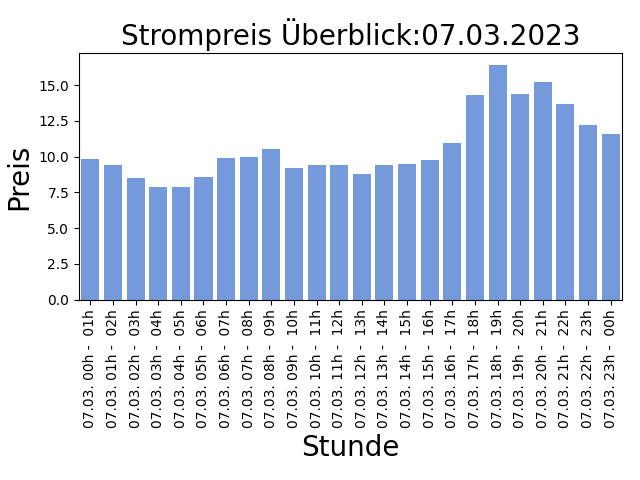
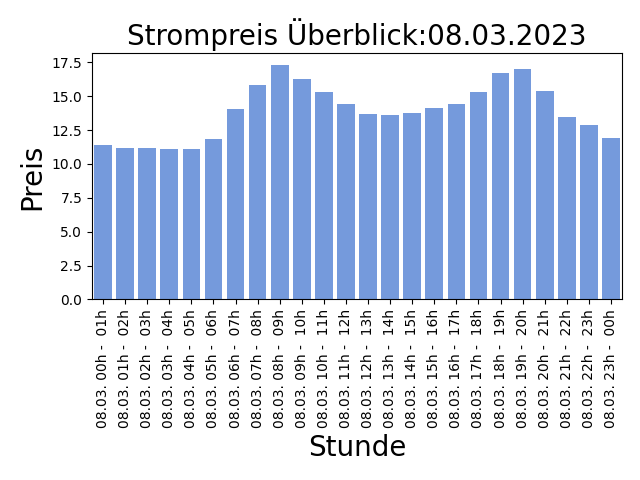
AUTOMATIC UPDATE PRICE LIST: 2023-03-07-14:30:07

diff --git a/README.md b/README.md
@@ -1,5 +1,5 @@
 
-## Strompreise für den 07.03.2023
+## Strompreise für den 08.03.2023
 
 Niedrige Preise deuten auf viel Sonnen und Windenergieerzeugung hin, ein hoher Anteil an erneuerbaren Energien bedeuted weniger CO2 Verbrauch!
 
@@ -7,31 +7,31 @@ Niedrige Preise deuten auf viel Sonnen und Windenergieerzeugung hin, ein hoher A
 
 | Stunde | Preis in Cent/kWh |
 |---|---|
-| 07.03. 00h -  01h | 9.806000000000001 | 
-| 07.03. 01h -  02h | 9.426 | 
-| 07.03. 02h -  03h | 8.5 | 
-| 07.03. 03h -  04h | 7.895999999999999 | 
-| **07.03. 04h -  05h** | **7.851999999999999** | 
-| 07.03. 05h -  06h | 8.556999999999999 | 
-| 07.03. 06h -  07h | 9.870999999999999 | 
-| 07.03. 07h -  08h | 9.956999999999999 | 
-| 07.03. 08h -  09h | 10.559000000000001 | 
-| 07.03. 09h -  10h | 9.192 | 
-| 07.03. 10h -  11h | 9.386 | 
-| 07.03. 11h -  12h | 9.426 | 
-| 07.03. 12h -  13h | 8.757 | 
-| 07.03. 13h -  14h | 9.386 | 
-| 07.03. 14h -  15h | 9.507 | 
-| 07.03. 15h -  16h | 9.76 | 
-| 07.03. 16h -  17h | 10.922 | 
-| 07.03. 17h -  18h | 14.297 | 
-| 07.03. 18h -  19h | 16.408 | 
-| 07.03. 19h -  20h | 14.391 | 
-| 07.03. 20h -  21h | 15.213999999999999 | 
-| 07.03. 21h -  22h | 13.643 | 
-| 07.03. 22h -  23h | 12.221 | 
-| 07.03. 23h -  00h | 11.549 | 
+| 08.03. 00h -  01h | 11.43 | 
+| 08.03. 01h -  02h | 11.209999999999999 | 
+| 08.03. 02h -  03h | 11.202 | 
+| **08.03. 03h -  04h** | **11.1** | 
+| 08.03. 04h -  05h | 11.1 | 
+| 08.03. 05h -  06h | 11.823 | 
+| 08.03. 06h -  07h | 14.068000000000001 | 
+| 08.03. 07h -  08h | 15.853 | 
+| 08.03. 08h -  09h | 17.31 | 
+| 08.03. 09h -  10h | 16.3 | 
+| 08.03. 10h -  11h | 15.299000000000001 | 
+| 08.03. 11h -  12h | 14.416999999999998 | 
+| 08.03. 12h -  13h | 13.716999999999999 | 
+| 08.03. 13h -  14h | 13.593 | 
+| 08.03. 14h -  15h | 13.744 | 
+| 08.03. 15h -  16h | 14.109 | 
+| 08.03. 16h -  17h | 14.447 | 
+| 08.03. 17h -  18h | 15.300999999999998 | 
+| 08.03. 18h -  19h | 16.689 | 
+| 08.03. 19h -  20h | 17.002000000000002 | 
+| 08.03. 20h -  21h | 15.377 | 
+| 08.03. 21h -  22h | 13.463999999999999 | 
+| 08.03. 22h -  23h | 12.882 | 
+| 08.03. 23h -  00h | 11.9 | 
 
 Preise der EPEX Spot ® Strombörse (neue Preise werden täglich um 14:00 veröffentlicht für den kompletten nächsten Tag).
 
-letzte Aktualisierung:06.03.2023 14:30
+letzte Aktualisierung:07.03.2023 14:30
